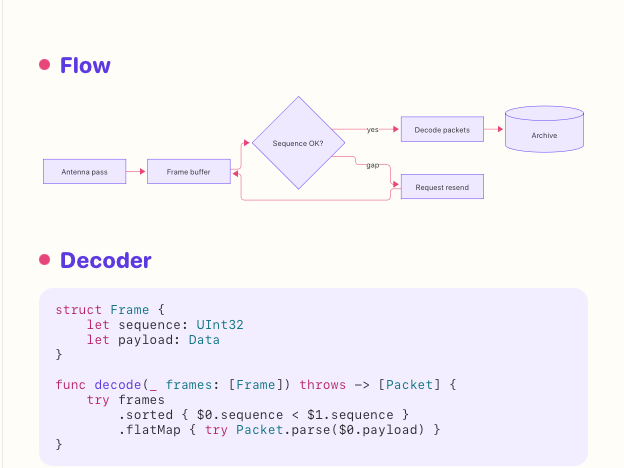
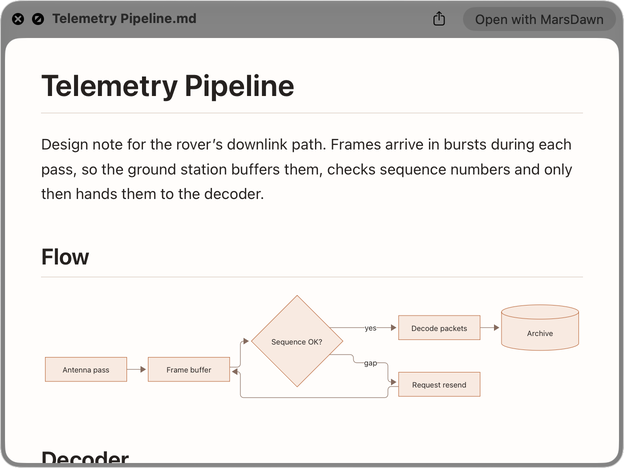
Home cards: card 3 uses the Quick Look picture (#332)
Card 3 swaps the Vivid-theme placeholder for Quella's Quick Look
window (Dawn, light) and links to /quicklook/ with the approved
Quick Look copy (HOME_CARD3_QUICKLOOK_COPY, read from Aria's table and
compared verbatim, 16/16). The alt is still the placeholder's, kept
until Aria's alt for the new picture is approved.

Picture: en-mac-quicklook-dawn-light.png, 1248x936, sha256
536aad5adcba0565eb605fbb029791eeeb6e7fa3253895c8c73275daaeec588d,
scaled to 624x468, not cropped. The file keeps the name
card-vivid-624.png. public/ is regenerated in the next commit.

AI-Assisted-by: Claude Code / Anthropic (claude-sonnet-5-5)

diff --git a/scripts/build_pages.py b/scripts/build_pages.py
@@ -5154,17 +5154,17 @@ def all_pages_en() -> dict:
 HOME_TRAITS = ["native", "yours", "pay-once", "features"]
 # The feature cards (#332), between the loop's three steps and the plan loop: four 4:3 shots, one
 # feature each, in reading order. Each is (page its title links to, image stem, files as (width, ext),
-# the platform word printed on the picture). The shots are crops of the existing Mac screenshots and
-# of the iPhone capture (#329); see public/assets/screens/card-*. Titles and lines are the site's
+# the platform word printed on the picture). The shots are crops of the existing Mac screenshots, a scaled-down
+# Quick Look window (card 3) and a crop of the iPhone capture (#329); see public/assets/screens/card-*. Titles and lines are the site's
 # approved copy (HOME_CARD_COPY), the alt text too (HOME_CARD_ALT).
 # Card 1's title links here. Daphne / Ray: to change the link, change this one line.
 HOME_CARD1_TARGET = "mermaid-preview-mac"
 HOME_CARDS = [
     (HOME_CARD1_TARGET, "card-mermaid", {"files": [(624, "png")], "size": (624, 468)}, "Mac"),
     ("pdf", "card-pdf", {"files": [(665, "png")], "size": (665, 499)}, "Mac"),
-    # PLACEHOLDER: the Quick Look shot (Finder, Space) isn't taken yet. Until it is, the Vivid theme's
-    # preview, cropped by the same rule as the first card, stands in and the title links to /themes/.
-    ("themes", "card-vivid", {"files": [(624, "png")], "size": (624, 468)}, "Mac"),
+    # Card 3: the Quick Look window (Finder, Space), Dawn light, scaled to half size (1248x936 -> 624x468), not cropped.
+    # The file keeps the name card-vivid-624.png from the placeholder it replaced.
+    ("quicklook", "card-vivid", {"files": [(624, "png")], "size": (624, 468)}, "Mac"),
     ("features#iphone-ipad", "card-iphone", {"files": [(472, "webp"), (944, "webp")], "size": (944, 708)}, "iPhone"),
 ]
 # The feature cards' approved copy (#332, Ray: "#332 文案 ok"): {card: {locale: (title, line)}}, plain text (home_card_copy
@@ -5200,21 +5200,12 @@ HOME_CARD_COPY = {
         "fr": ("Export PDF", "Les diagrammes Mermaid, dessinés dans le PDF."),
         "es": ("Exportación a PDF", "Diagramas Mermaid, dibujados dentro del PDF."),
     },
-    "themes": {
-        "en": ("Themes", "Four themes built in. More in the gallery."),
-        "zh-hant": ("主題", "內建四種主題，主題庫裡還有更多。"),
-        "zh-hans": ("主题", "内置四种主题，主题图库里还有更多。"),
-        "ja": ("テーマ", "4種類のテーマを内蔵。ギャラリーにはさらに多く。"),
-        "ko": ("테마", "기본 테마 네 가지. 갤러리에 더 있습니다."),
-        "de": ("Themen", "Vier Themen integriert. Mehr in der Galerie."),
-        "fr": ("Thèmes", "Quatre thèmes intégrés. D’autres dans la galerie."),
-        "es": ("Temas", "Cuatro temas integrados. Más en la galería."),
-    },
 }
 
 # The feature cards' approved alt text (#332, Ray: "#332 alt ok"): {card: {locale: alt}}, plain text (home_cards_html escapes it).
 # Source: https://github.com/redtear1115/mars-dawn-website/issues/332#issuecomment-6921274799 ; applied by a script, not typed.
-# "themes" is the placeholder crop's alt (card 3); it is replaced with the card, when the Quick Look shot lands.
+# "quicklook" (card 3) is still the placeholder picture's alt and does not describe the Quick Look window; it is replaced
+# when Aria's alt for that picture is approved.
 HOME_CARD_ALT = {
     "iphone": {
         "en": "A checkout flowchart, above the start of a code block.",
@@ -5246,7 +5237,7 @@ HOME_CARD_ALT = {
         "fr": "Le haut d’une page : un titre, un court paragraphe et un organigramme.",
         "es": "Parte superior de una página: un título, un párrafo breve y un diagrama de flujo.",
     },
-    "themes": {
+    "quicklook": {
         "en": "A page with purple headings, a flowchart with pink arrows, and a code block on a light purple background.",
         "zh-hant": "紫色標題、粉紅箭頭的流程圖，以及淺紫色底的程式碼區塊。",
         "zh-hans": "紫色标题、粉色箭头的流程图，以及浅紫色底的代码块。",
@@ -5258,8 +5249,8 @@ HOME_CARD_ALT = {
     },
 }
 
-# NOT IN USE: card 3's approved copy for the Quick Look shot, same shape. When that shot lands, point the third card at
-# "quicklook" and read this table instead of HOME_CARD_COPY["themes"].
+# Card 3's approved copy (the Quick Look shot), same shape as HOME_CARD_COPY. Source: the same comment as HOME_CARD_COPY,
+# its card 3 Quick Look table; applied by a script, not typed.
 HOME_CARD3_QUICKLOOK_COPY = {
     "quicklook": {
         "en": ("Quick Look for Markdown", "Select a Markdown file in Finder and press Space."),
@@ -5588,8 +5579,8 @@ def _home_sections_for_twin(locale: str) -> str:
 def home_card_copy(locale: str, target: str) -> tuple:
     """(title, line, alt) of one feature card. Title, line and alt are the approved copy (HOME_CARD_COPY, HOME_CARD_ALT, plain
     text; title and line are escaped here, alt where it is written)."""
-    card = {HOME_CARD1_TARGET: "mermaid", "pdf": "pdf", "themes": "themes"}.get(target, "iphone")
-    title, line = HOME_CARD_COPY[card][locale]
+    card = {HOME_CARD1_TARGET: "mermaid", "pdf": "pdf", "quicklook": "quicklook"}.get(target, "iphone")
+    title, line = (HOME_CARD3_QUICKLOOK_COPY if card == "quicklook" else HOME_CARD_COPY)[card][locale]
     alt = HOME_CARD_ALT[card][locale]
     return xml_escape(title), xml_escape(line), alt
 
